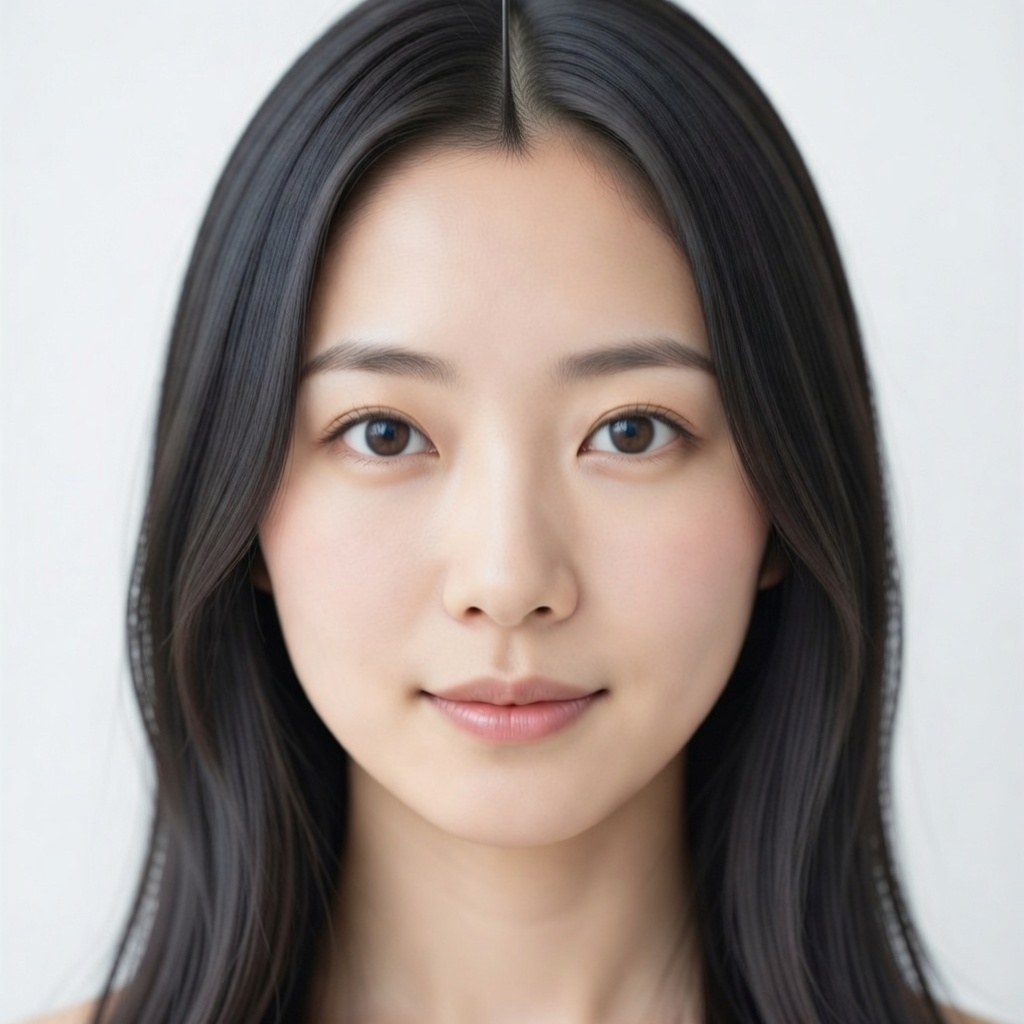
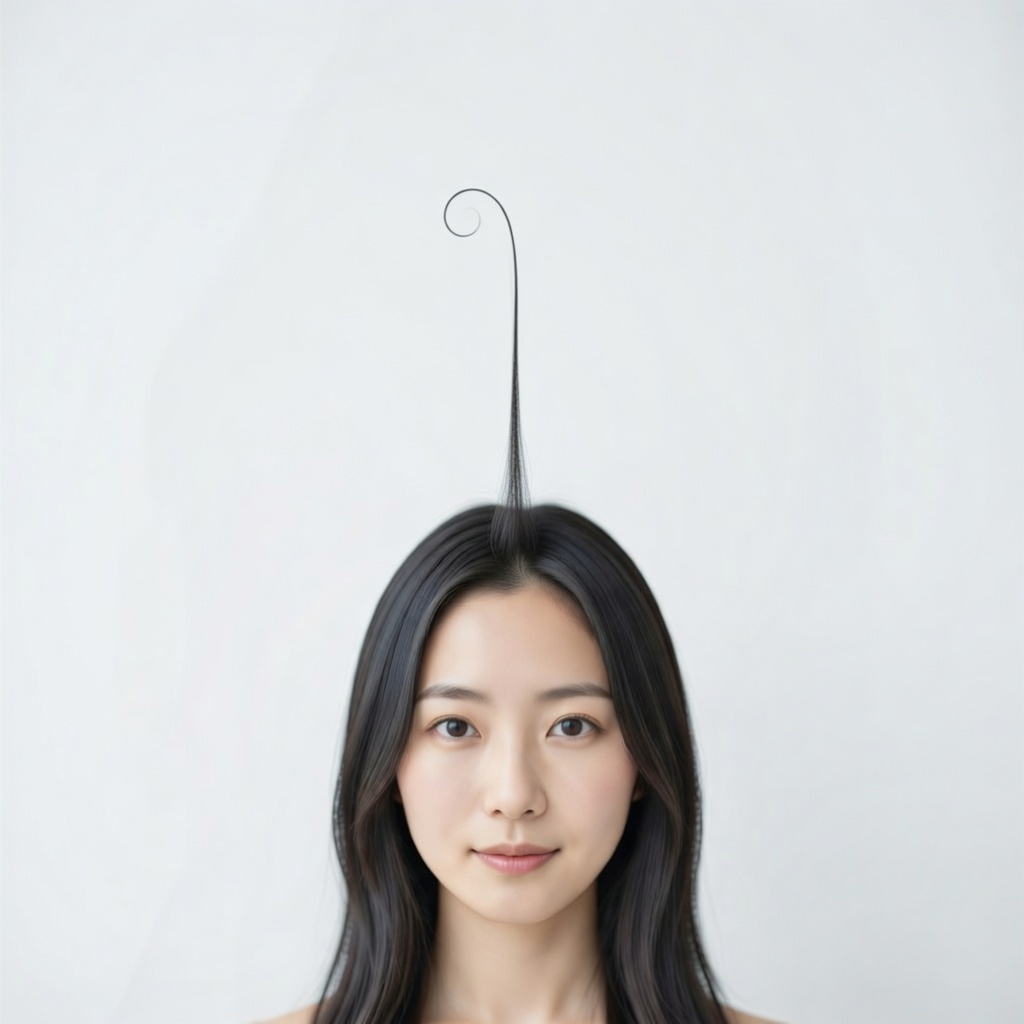
feat: add remaining 5 headwear previews + regenerate ahoge with hat base

diff --git a/data/options-data.js b/data/options-data.js
@@ -1365,12 +1365,12 @@ window.PromptGen.Data = (function () {
         // ── 04 圍巾與頸部（5 件）──
         { label: '圍巾', en: 'Scarf', value: 'scarf, winter scarf', image: 'assets/previews/hw_scarf.png' },
         { label: '領巾', en: 'Neckerchief', value: 'neckerchief, neck scarf', image: 'assets/previews/hw_neckerchief.png' },
-        { label: '披肩', en: 'Shawl', value: 'shawl, shoulder wrap' },
-        { label: '斗篷帽', en: 'Hooded Cloak', value: 'hooded cloak, cloak with hood' },
-        { label: '頭巾', en: 'Bandana', value: 'bandana, head bandana' },
+        { label: '披肩', en: 'Shawl', value: 'shawl, shoulder wrap', image: 'assets/previews/hw_shawl.png' },
+        { label: '斗篷帽', en: 'Hooded Cloak', value: 'hooded cloak, cloak with hood', image: 'assets/previews/hw_hooded_cloak.png' },
+        { label: '頭巾', en: 'Bandana', value: 'bandana, head bandana', image: 'assets/previews/hw_bandana.png' },
         // ── 05 面部覆蓋（6 件）──
-        { label: '面具', en: 'Mask', value: 'mask, masquerade mask' },
-        { label: '半面罩', en: 'Half Mask', value: 'half mask, half face mask' },
+        { label: '面具', en: 'Mask', value: 'mask, masquerade mask', image: 'assets/previews/hw_mask.png' },
+        { label: '半面罩', en: 'Half Mask', value: 'half mask, half face mask', image: 'assets/previews/hw_half_mask.png' },
         { label: '眼罩', en: 'Eye Patch', value: 'eye patch, eyepatch' },
         { label: '面紗', en: 'Veil', value: 'veil, face veil' },
         { label: '口罩', en: 'Face Mask', value: 'face mask, surgical mask' },

diff --git a/tools/update-headwear-extra.js b/tools/update-headwear-extra.js
@@ -1,0 +1,41 @@
+/**
+ * update-headwear-extra.js
+ * 補上最後 5 個頭飾 + 呆毛已重新生成不需重新映射
+ */
+const fs = require('fs');
+const path = require('path');
+
+const filePath = path.join(__dirname, '..', 'data', 'options-data.js');
+let content = fs.readFileSync(filePath, 'utf-8');
+
+const imageMap = {
+    'Shawl': 'hw_shawl',
+    'Hooded Cloak': 'hw_hooded_cloak',
+    'Bandana': 'hw_bandana',
+    'Mask': 'hw_mask',
+    'Half Mask': 'hw_half_mask',
+};
+
+let count = 0;
+for (const [enLabel, filename] of Object.entries(imageMap)) {
+    const imgPath = `assets/previews/${filename}.png`;
+    const escaped = enLabel.replace(/[.*+?^${}()|[\]\\]/g, '\\$&');
+    const pattern = new RegExp(
+        `(\\{ label: '[^']+', en: '${escaped}', value: '[^']+')( \\})`,
+        'g'
+    );
+
+    let replaced = false;
+    const newContent = content.replace(pattern, (match, prefix, suffix) => {
+        if (match.includes('image:')) return match;
+        if (replaced) return match;
+        replaced = true;
+        count++;
+        return `${prefix}, image: '${imgPath}'${suffix}`;
+    });
+
+    if (newContent !== content) content = newContent;
+}
+
+fs.writeFileSync(filePath, content, 'utf-8');
+console.log(`✅ 已更新 ${count} 個 HEADWEAR 的 image 屬性`);
